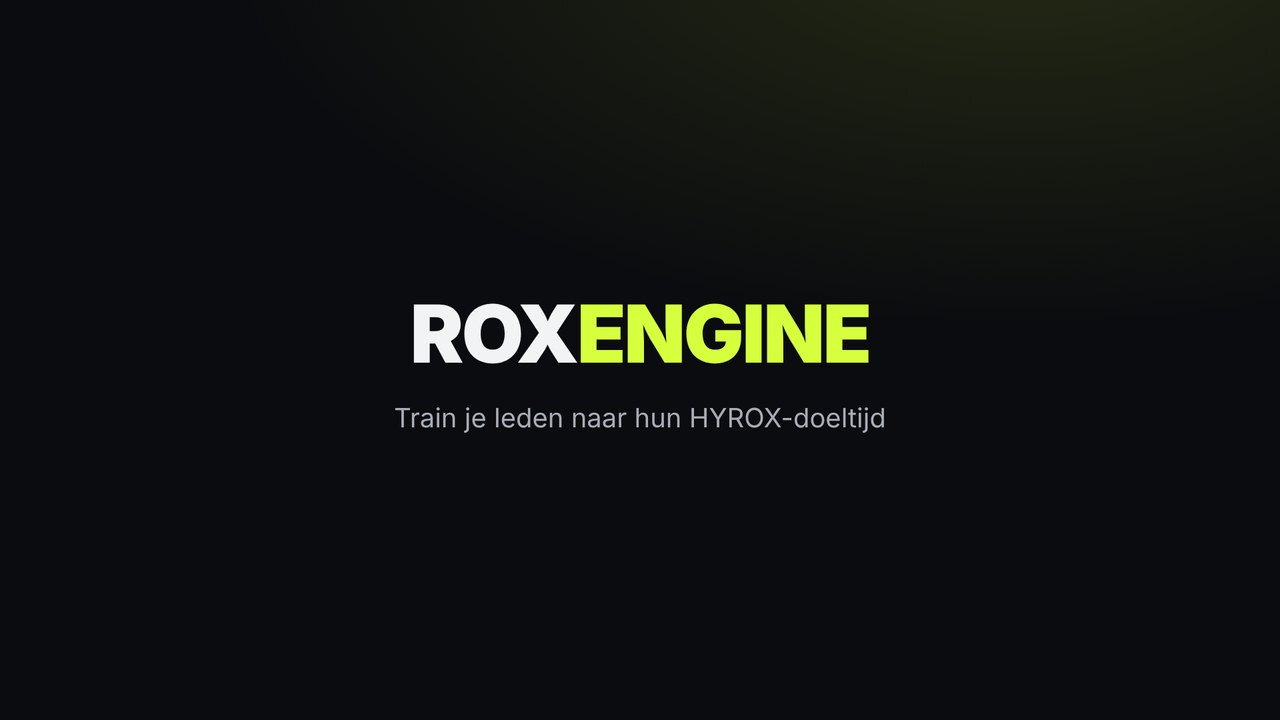
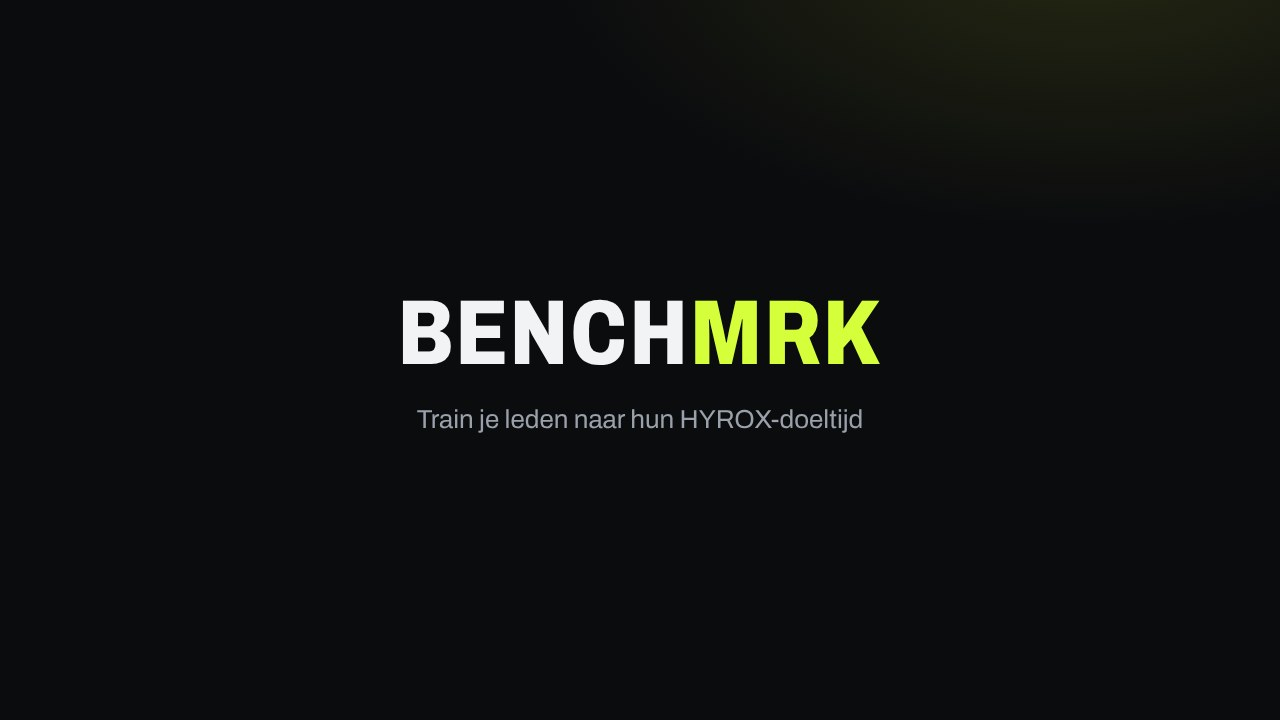
Demo: naam RoxEngine vervangen door Benchmrk (pagina, subtitles, bestandsnamen, poster)
Oude bestandspaden verwijzen permanent door. De video zelf (voice-over en beeld) is nog niet opnieuw gerenderd.

Claude-Session: https://claude.ai/code/session_01JkT7zxRrkFduS8Jj5L2Pej

Changed region(s): [[0.3125, 0.3972, 0.6875, 0.5194], [0.3125, 0.55, 0.6875, 0.6111]]

diff --git a/public/demo.html b/public/demo.html
@@ -3,21 +3,21 @@
 <head>
 <meta charset="utf-8" />
 <meta name="viewport" content="width=device-width, initial-scale=1" />
-<title>RoxEngine · Demo voor gyms en trainers</title>
-<meta name="description" content="Train je leden naar hun HYROX-doeltijd. Bekijk in 2 minuten hoe RoxEngine werkt voor gyms en personal trainers." />
+<title>Benchmrk · Demo voor gyms en trainers</title>
+<meta name="description" content="Train je leden naar hun HYROX-doeltijd. Bekijk in 2 minuten hoe Benchmrk werkt voor gyms en personal trainers." />
 <meta name="theme-color" content="#0b0c0e" />
 <link rel="icon" href="/favicon.svg" />
 <meta property="og:type" content="video.other" />
-<meta property="og:title" content="RoxEngine · Train je leden naar hun HYROX-doeltijd" />
+<meta property="og:title" content="Benchmrk · Train je leden naar hun HYROX-doeltijd" />
 <meta property="og:description" content="2 minuten demo voor gym-eigenaren en personal trainers." />
-<meta property="og:url" content="https://roxengine-beta.vercel.app/demo" />
-<meta property="og:image" content="https://roxengine-beta.vercel.app/demo/poster.jpg" />
+<meta property="og:url" content="https://benchmrk.ai/demo" />
+<meta property="og:image" content="https://benchmrk.ai/demo/poster.jpg" />
 <meta property="og:image:width" content="1280" /><meta property="og:image:height" content="720" />
-<meta property="og:video" content="https://roxengine-beta.vercel.app/demo/roxengine-demo-nl.mp4" />
+<meta property="og:video" content="https://benchmrk.ai/demo/benchmrk-demo-nl.mp4" />
 <meta property="og:video:type" content="video/mp4" />
 <meta property="og:video:width" content="1920" /><meta property="og:video:height" content="1080" />
 <meta name="twitter:card" content="summary_large_image" />
-<meta name="twitter:image" content="https://roxengine-beta.vercel.app/demo/poster.jpg" />
+<meta name="twitter:image" content="https://benchmrk.ai/demo/poster.jpg" />
 <link rel="preconnect" href="https://fonts.googleapis.com" /><link rel="preconnect" href="https://fonts.gstatic.com" crossorigin />
 <link href="https://fonts.googleapis.com/css2?family=Geist:wght@400;600;800&display=swap" rel="stylesheet" />
 <style>
@@ -42,21 +42,21 @@ footer{margin-top:48px;color:var(--mute);font-size:13px;line-height:1.5}
 </head>
 <body>
 <div class="wrap">
-  <header><a class="logo" href="/">ROX<b>ENGINE</b></a><a class="btn ghost" href="/">Naar de app</a></header>
+  <header><a class="logo" href="/">BENCH<b>MRK</b></a><a class="btn ghost" href="/">Naar de app</a></header>
   <h1>Train je leden naar hun HYROX-doeltijd</h1>
-  <p class="lead">In twee minuten: hoe RoxEngine voor elk lid een plan bouwt richting de doeltijd, en hoe jouw gym of PT-praktijk daaraan verdient.</p>
+  <p class="lead">In twee minuten: hoe Benchmrk voor elk lid een plan bouwt richting de doeltijd, en hoe jouw gym of PT-praktijk daaraan verdient.</p>
   <video controls playsinline preload="metadata" poster="/demo/poster.jpg">
-    <source src="/demo/roxengine-demo-nl.mp4" type="video/mp4" />
-    <track kind="subtitles" srclang="nl" label="Nederlands" src="/demo/roxengine-demo-nl.vtt" />
+    <source src="/demo/benchmrk-demo-nl.mp4" type="video/mp4" />
+    <track kind="subtitles" srclang="nl" label="Nederlands" src="/demo/benchmrk-demo-nl.vtt" />
   </video>
   <div class="grid">
     <div class="card"><h3>Jouw opbouw, jouw sims</h3><p>Stel één keer je eigen sim-opbouw in; al je leden trainen ernaar.</p></div>
     <div class="card"><h3>Gratis voor jou en je coaches</h3><p>Leden koppelen zich via jouw gymlink of gymcode.</p></div>
     <div class="card"><h3>20% per betalend lid</h3><p>Op elk abonnement, elk jaar opnieuw.</p></div>
   </div>
-  <div class="cta"><a class="btn" href="/invite">Word partner</a><a class="btn ghost" href="/">Probeer RoxEngine</a></div>
-  <div class="share">Deel deze pagina:<br><input readonly value="https://roxengine-beta.vercel.app/demo" onclick="this.select()" /></div>
-  <footer>RoxEngine geeft algemene trainingsinformatie op basis van publieke sportwetenschap. Het is geen medisch advies en vervangt geen gecertificeerde trainer, fysiotherapeut of arts.</footer>
+  <div class="cta"><a class="btn" href="/invite">Word partner</a><a class="btn ghost" href="/">Probeer Benchmrk</a></div>
+  <div class="share">Deel deze pagina:<br><input readonly value="https://benchmrk.ai/demo" onclick="this.select()" /></div>
+  <footer>Benchmrk geeft algemene trainingsinformatie op basis van publieke sportwetenschap. Het is geen medisch advies en vervangt geen gecertificeerde trainer, fysiotherapeut of arts.</footer>
 </div>
 </body>
 </html>
